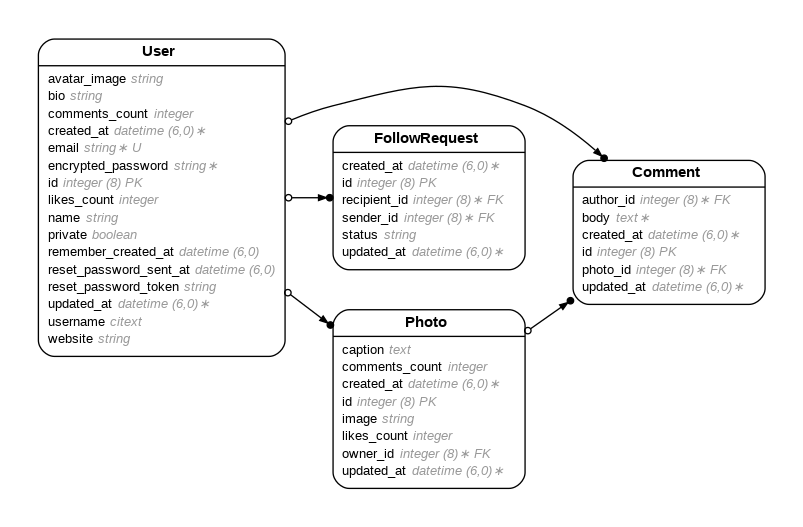
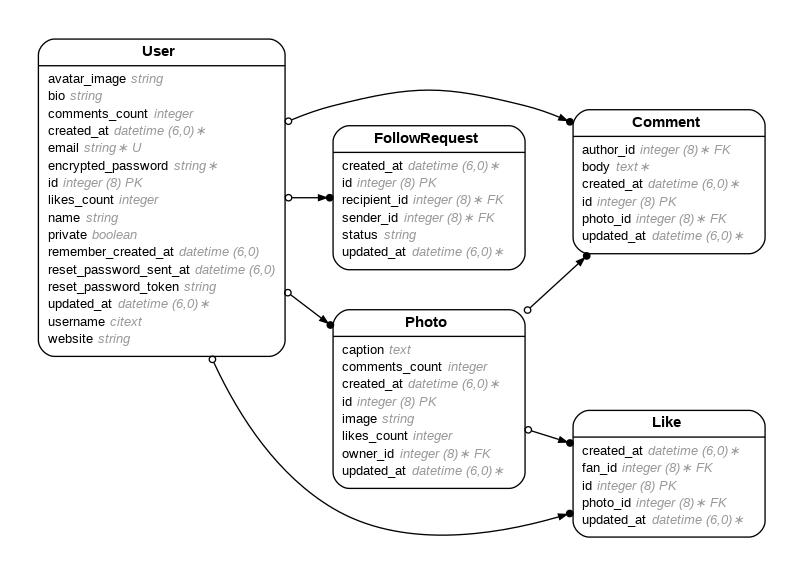
Generated likes

diff --git a/app/controllers/likes_controller.rb b/app/controllers/likes_controller.rb
@@ -1,0 +1,70 @@
+class LikesController < ApplicationController
+  before_action :set_like, only: %i[ show edit update destroy ]
+
+  # GET /likes or /likes.json
+  def index
+    @likes = Like.all
+  end
+
+  # GET /likes/1 or /likes/1.json
+  def show
+  end
+
+  # GET /likes/new
+  def new
+    @like = Like.new
+  end
+
+  # GET /likes/1/edit
+  def edit
+  end
+
+  # POST /likes or /likes.json
+  def create
+    @like = Like.new(like_params)
+
+    respond_to do |format|
+      if @like.save
+        format.html { redirect_to @like, notice: "Like was successfully created." }
+        format.json { render :show, status: :created, location: @like }
+      else
+        format.html { render :new, status: :unprocessable_entity }
+        format.json { render json: @like.errors, status: :unprocessable_entity }
+      end
+    end
+  end
+
+  # PATCH/PUT /likes/1 or /likes/1.json
+  def update
+    respond_to do |format|
+      if @like.update(like_params)
+        format.html { redirect_to @like, notice: "Like was successfully updated." }
+        format.json { render :show, status: :ok, location: @like }
+      else
+        format.html { render :edit, status: :unprocessable_entity }
+        format.json { render json: @like.errors, status: :unprocessable_entity }
+      end
+    end
+  end
+
+  # DELETE /likes/1 or /likes/1.json
+  def destroy
+    @like.destroy!
+
+    respond_to do |format|
+      format.html { redirect_to likes_path, status: :see_other, notice: "Like was successfully destroyed." }
+      format.json { head :no_content }
+    end
+  end
+
+  private
+    # Use callbacks to share common setup or constraints between actions.
+    def set_like
+      @like = Like.find(params.expect(:id))
+    end
+
+    # Only allow a list of trusted parameters through.
+    def like_params
+      params.expect(like: [ :fan_id, :photo_id ])
+    end
+end

diff --git a/db/schema.rb b/db/schema.rb
@@ -10,7 +10,7 @@
 #
 # It's strongly recommended that you check this file into your version control system.
 
-ActiveRecord::Schema[8.0].define(version: 2025_04_09_164614) do
+ActiveRecord::Schema[8.0].define(version: 2025_04_09_164819) do
   # These are extensions that must be enabled in order to support this database
   enable_extension "citext"
   enable_extension "pg_catalog.plpgsql"
@@ -32,6 +32,15 @@ ActiveRecord::Schema[8.0].define(version: 2025_04_09_164614) do
     t.datetime "updated_at", null: false
     t.index ["recipient_id"], name: "index_follow_requests_on_recipient_id"
     t.index ["sender_id"], name: "index_follow_requests_on_sender_id"
+  end
+
+  create_table "likes", force: :cascade do |t|
+    t.bigint "fan_id", null: false
+    t.bigint "photo_id", null: false
+    t.datetime "created_at", null: false
+    t.datetime "updated_at", null: false
+    t.index ["fan_id"], name: "index_likes_on_fan_id"
+    t.index ["photo_id"], name: "index_likes_on_photo_id"
   end
 
   create_table "photos", force: :cascade do |t|
@@ -70,5 +79,7 @@ ActiveRecord::Schema[8.0].define(version: 2025_04_09_164614) do
   add_foreign_key "comments", "users", column: "author_id"
   add_foreign_key "follow_requests", "users", column: "recipient_id"
   add_foreign_key "follow_requests", "users", column: "sender_id"
+  add_foreign_key "likes", "photos"
+  add_foreign_key "likes", "users", column: "fan_id"
   add_foreign_key "photos", "users", column: "owner_id"
 end

diff --git a/app/models/like.rb b/app/models/like.rb
@@ -1,0 +1,24 @@
+# == Schema Information
+#
+# Table name: likes
+#
+#  id         :bigint           not null, primary key
+#  created_at :datetime         not null
+#  updated_at :datetime         not null
+#  fan_id     :bigint           not null
+#  photo_id   :bigint           not null
+#
+# Indexes
+#
+#  index_likes_on_fan_id    (fan_id)
+#  index_likes_on_photo_id  (photo_id)
+#
+# Foreign Keys
+#
+#  fk_rails_...  (fan_id => users.id)
+#  fk_rails_...  (photo_id => photos.id)
+#
+class Like < ApplicationRecord
+  belongs_to :fan, class_name: "User"
+  belongs_to :photo
+end

diff --git a/db/migrate/20250409164819_create_likes.rb b/db/migrate/20250409164819_create_likes.rb
@@ -1,0 +1,10 @@
+class CreateLikes < ActiveRecord::Migration[8.0]
+  def change
+    create_table :likes do |t|
+      t.references :fan, null: false, foreign_key: { to_table: :users }
+      t.references :photo, null: false, foreign_key: true
+
+      t.timestamps
+    end
+  end
+end

diff --git a/config/routes.rb b/config/routes.rb
@@ -1,4 +1,5 @@
 Rails.application.routes.draw do
+  resources :likes
   resources :follow_requests
   resources :comments
   resources :photos
